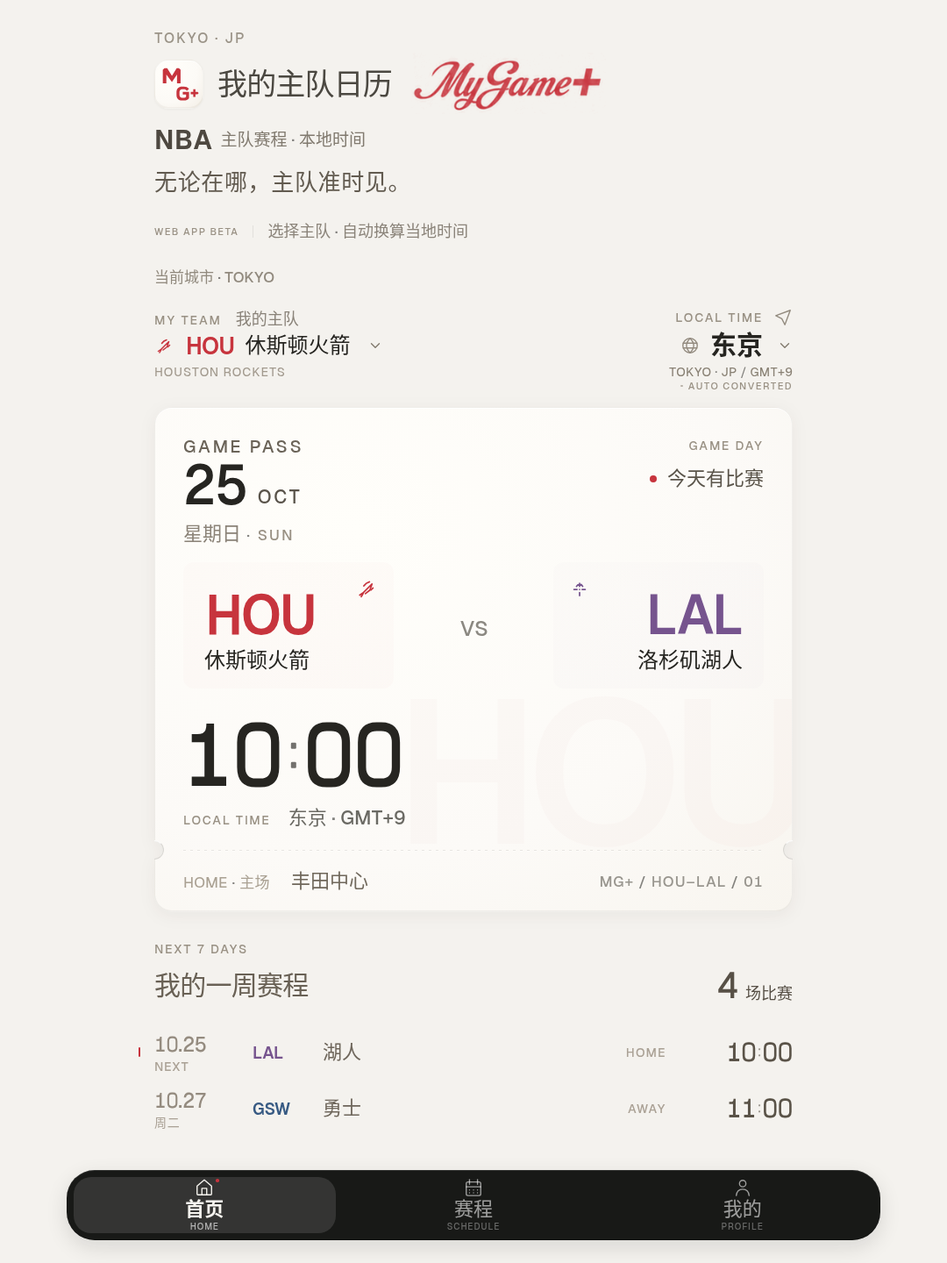
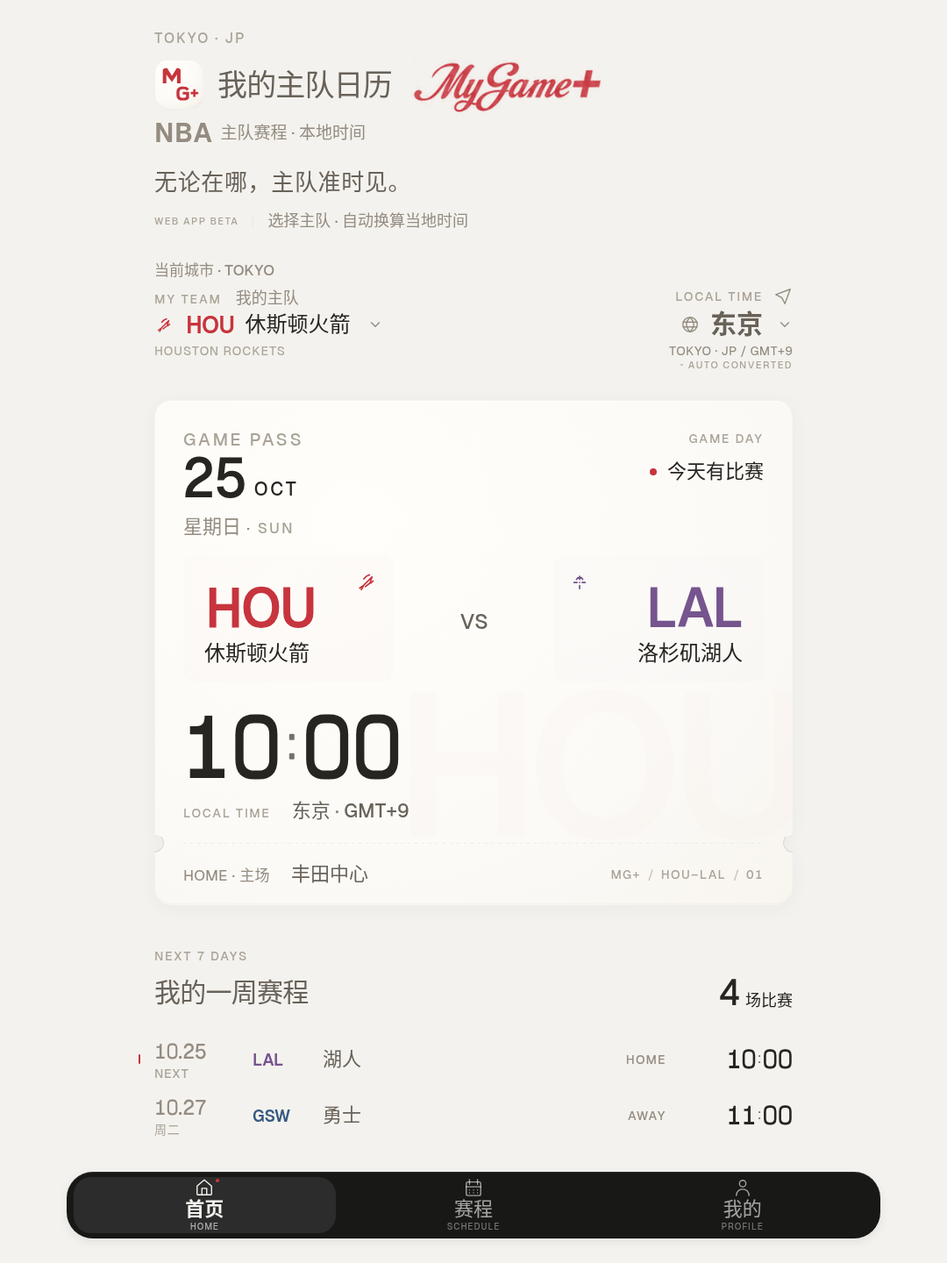
Refine MyGame+ promo V1.8 luxury precision

diff --git a/design/promo/promo.html b/design/promo/promo.html
@@ -2,7 +2,7 @@
 <html lang="zh-CN">
 <meta charset="utf-8">
 <meta name="viewport" content="width=1080, initial-scale=1">
-<title>MyGame+ Promo V1.7 — Branded Sports Language</title>
+<title>MyGame+ Promo V1.8 — Luxury Precision Pass</title>
 <link rel="stylesheet" href="system-island.css">
 <style>
 @font-face{font-family:Geist;src:url('GeistSans.woff2') format('woff2');font-weight:100 900;font-display:block}
@@ -11,12 +11,12 @@
 @font-face{font-family:'MyGame Identity';src:url('identity-600.woff2') format('woff2');font-weight:600;font-display:block}
 :root{
  --canvas:#f4f2ee;--paper:#fcfaf7;--paper-center:#fffefa;--paper-edge:#f8f5ef;
- --primary:#262521;--secondary:#6b6a64;--tertiary:#99968f;
- --hairline:rgba(20,20,20,.038);--red:#c7343d;--hou:#c7343d;--lal:#76548e;--gsw:#375a83;
- --radius-team:12px;--radius-beta:16px;--radius-pass:20px;--radius-dock:32px;
- --space-1:4px;--space-2:8px;--space-3:12px;--space-4:16px;--space-5:20px;--space-6:24px;--space-8:32px;--space-10:40px;--space-12:48px;
+ --primary:#262521;--secondary:#686259;--tertiary:#948c80;--micro-ink:#aaa397;
+ --hairline:rgba(20,20,20,.028);--red:#c7343d;--hou:#c7343d;--lal:#76548e;--gsw:#375a83;
+ --radius-team:12px;--radius-beta:16px;--radius-pass:20px;--radius-dock:30px;
+ --space-1:4px;--space-2:8px;--space-3:12px;--space-4:16px;--space-6:24px;--space-8:32px;--space-12:48px;
  --type-time:48px;--promo-time-scale:2.0833333333;
- --system-micro-size:11px;--system-micro-line:16px;--system-micro-tracking:.13em;--system-micro-weight:500;--system-micro-color:#999184;
+ --system-micro-size:11px;--system-micro-line:16px;--system-micro-tracking:.13em;--system-micro-weight:500;--system-micro-color:var(--micro-ink);
 }
 *{box-sizing:border-box}html,body{margin:0;width:1080px;height:1440px;overflow:hidden}
 body{background:var(--canvas);color:var(--primary);font-family:Geist,'Noto Sans CJK SC',sans-serif;-webkit-font-smoothing:antialiased;font-synthesis:none}
@@ -24,106 +24,108 @@ main{position:relative;width:1080px;height:1440px;isolation:isolate}h1,h2,p{marg
 svg{display:block;overflow:visible;fill:none;stroke:currentColor;stroke-width:1.5;stroke-linecap:round;stroke-linejoin:round;flex:none}
 svg *{vector-effect:non-scaling-stroke}
 .number{font-variant-numeric:tabular-nums;font-feature-settings:'tnum';font-weight:530;letter-spacing:-.035em;white-space:nowrap}
-.separator{color:rgba(38,37,33,.56)}
+.separator{color:var(--tertiary)}
 .micro,.beta-label,.auto-state{font-family:Geist,'Noto Sans CJK SC',sans-serif;font-weight:var(--system-micro-weight);letter-spacing:var(--system-micro-tracking);color:var(--system-micro-color)}
 .micro{font-size:14px;line-height:20px}
 .timing-run{display:inline-flex;align-items:center;font-family:'MyGame Timing',Geist,sans-serif;font-variant-numeric:tabular-nums;font-feature-settings:'tnum';font-weight:550;line-height:1;letter-spacing:0;white-space:nowrap}
-.timing-colon{position:relative;display:inline-block;flex:none;width:.18em;height:.74em;margin:0 .03em;opacity:.64;transform:translateY(.01em)}
+.timing-colon{position:relative;display:inline-block;flex:none;width:.18em;height:.74em;margin:0 .03em;opacity:.64;transform:translateY(0)}
 .timing-colon::before,.timing-colon::after{content:'';position:absolute;left:50%;width:.064em;height:.064em;border-radius:.012em;background:currentColor;transform:translate(-50%,-50%)}
 .colon-text{font-size:0}
 .timing-colon::before{top:34%}.timing-colon::after{top:64%}
-.top-label{position:absolute;left:176px;top:32px;width:728px;height:24px;font-size:16px;line-height:24px;letter-spacing:.12em;font-weight:500;color:#9b9488}
+.top-label{position:absolute;left:176px;top:32px;width:728px;height:24px;font-size:16px;line-height:24px;letter-spacing:.12em;font-weight:500;color:var(--micro-ink)}
 .brand{position:absolute;left:176px;top:64px;width:728px;height:64px;display:flex;align-items:center}
-.brand h1{position:absolute;left:72px;top:10px;font-size:34px;line-height:44px;font-weight:500;letter-spacing:-.025em;color:#4b4841;white-space:nowrap}
-.app-mark{position:absolute;left:0;top:4px;width:56px;height:56px;border-radius:16px;background:radial-gradient(ellipse at 30% 22%,#fffefa 10%,#fcfaf6 60%,#f3eee5 100%);border:1px solid rgba(38,37,33,.045);box-shadow:inset 0 1px 0 rgba(255,255,255,.75),inset 0 -1px 0 rgba(65,54,39,.045),0 1px 3px rgba(34,29,21,.04);color:var(--red)}
+.brand h1{position:absolute;left:72px;top:11px;font-size:34px;line-height:44px;font-weight:500;letter-spacing:-.025em;color:var(--secondary);white-space:nowrap}
+.app-mark{position:absolute;left:0;top:4px;width:56px;height:56px;border-radius:16px;background:radial-gradient(ellipse at 30% 22%,#fffefa 10%,#fcfaf6 60%,#f3eee5 100%);border:1px solid rgba(38,37,33,.025);box-shadow:inset 0 1px 0 rgba(255,255,255,.6),inset 0 -1px 0 rgba(65,54,39,.025),0 1px 3px rgba(34,29,21,.025);color:var(--red)}
 .mark-glyph{display:block;width:100%;height:100%}
 .mark-glyph,.mark-glyph *{fill:currentColor;stroke:none}
-.wordmark{position:absolute;left:292px;top:-4px;width:224px;height:70px;background:var(--red);mask:url('wordmark.png') center/contain no-repeat}
-.slogan{position:absolute;left:176px;top:192px;width:728px;height:32px;font-size:26px;line-height:32px;font-weight:500;letter-spacing:.025em;color:#625b50;white-space:nowrap}
-.subtitle{position:absolute;left:176px;top:144px;width:728px;height:32px;display:flex;align-items:center;font-size:19px;line-height:28px;font-weight:450;color:#817a6f}
-.subtitle .nba{font-size:30px;line-height:32px;font-weight:650;letter-spacing:.04em;color:#4e4840;margin-right:8px}
+.wordmark{position:absolute;left:292px;top:-2px;width:224px;height:70px;background:var(--red);mask:url('wordmark.png') center/contain no-repeat}
+.slogan{position:absolute;left:176px;top:192px;width:728px;height:32px;font-size:26px;line-height:32px;font-weight:500;letter-spacing:.025em;color:var(--secondary);white-space:nowrap}
+.subtitle{position:absolute;left:176px;top:136px;width:728px;height:32px;display:flex;align-items:center;font-size:19px;line-height:28px;font-weight:450;color:var(--tertiary)}
+.subtitle .nba{font-size:30px;line-height:32px;font-weight:650;letter-spacing:.04em;color:inherit;margin-right:8px}
 .subtitle .descriptor{white-space:pre}
-.beta{position:absolute;left:176px;top:248px;width:728px;height:32px;border-radius:var(--radius-beta);background:transparent;border:0;display:flex;align-items:center;padding:0;gap:16px}
+.beta{position:absolute;left:176px;top:240px;width:728px;height:24px;border-radius:var(--radius-beta);background:transparent;border:0;display:flex;align-items:center;padding:0;gap:16px}
 .beta-label,.auto-state{font-size:var(--system-micro-size);line-height:var(--system-micro-line);letter-spacing:var(--system-micro-tracking);font-weight:var(--system-micro-weight);color:var(--system-micro-color);white-space:nowrap}
-.divider{width:1px;height:14px;background:rgba(20,20,20,.08);flex:none}
-.beta-copy{font-size:18px;font-weight:450;letter-spacing:0;line-height:24px;color:#8b847a;white-space:nowrap}
-.city-status{position:absolute;left:176px;top:304px;width:728px;height:24px;font-size:17px;line-height:24px;font-weight:500;color:#918a7e}
-.city-status .route{color:#746d62}
-.identity{position:absolute;left:176px;top:352px;width:728px;height:96px}
+.divider{width:1px;height:14px;background:rgba(20,20,20,.04);flex:none}
+.beta-copy{font-size:18px;font-weight:450;letter-spacing:0;line-height:24px;color:var(--tertiary);white-space:nowrap}
+.city-status{position:absolute;left:176px;top:296px;width:728px;height:24px;font-size:17px;line-height:24px;font-weight:500;color:var(--tertiary)}
+.city-status .route{color:inherit}
+.identity{position:absolute;left:176px;top:328px;width:728px;height:96px}
 .identity-label{position:absolute;top:0;left:0;height:24px;width:420px;display:flex;gap:16px;align-items:baseline}
 .identity-label .micro,.local-label .micro{font-size:14px;line-height:20px}
-.identity-label .cn{font-size:18px;letter-spacing:0;line-height:24px;color:#8a8379;font-weight:450}
+.identity-label .cn{font-size:18px;letter-spacing:0;line-height:24px;color:var(--tertiary);font-weight:450}
 .time-system{position:absolute;right:0;top:0;width:280px;height:96px;text-align:right}
 .local-label{position:absolute;right:0;top:0;display:flex;align-items:center;gap:12px;height:20px}
-.local-label svg{width:22px;height:22px;color:#938b7f}
+.local-label svg{width:22px;height:22px;color:var(--tertiary)}
 .auto-state{position:absolute;right:0;top:80px;display:flex;align-items:center;gap:6px}
 .auto-state::before{content:'';width:2.5px;height:2.5px;border-radius:50%;background:currentColor;opacity:.65;flex:none}
 .team-preference{position:absolute;left:0;top:24px;display:flex;align-items:center;gap:12px;height:36px;white-space:nowrap}
 .team-preference svg{width:24px;height:24px;color:var(--hou)}
 .team-preference .code{font-family:'MyGame Identity',Geist,sans-serif;font-size:28px;line-height:36px;font-weight:600;letter-spacing:-.02em;color:var(--hou)}
 .team-preference .name{font-size:24px;line-height:36px;font-weight:500}
-.team-preference .chevron{width:18px;height:18px;margin-left:8px;color:#817a6d}
+.team-preference .chevron{width:18px;height:18px;margin-left:8px;color:var(--tertiary)}
 .city-control{position:absolute;right:0;top:24px;display:flex;align-items:center;height:36px;gap:12px}
-.city-control .globe{width:22px;height:22px;color:#938b7f}
-.city-control .city{font-size:30px;line-height:36px;font-weight:550;min-width:60px}
-.city-control .chevron{width:18px;height:18px;color:#817a6d;margin-left:4px}
-.identity-english{position:absolute;left:0;top:64px;width:370px;height:16px;font-size:14px;line-height:16px;font-weight:450;letter-spacing:.07em;color:#a29a8e}
-.offset{left:auto;right:0;width:280px;text-align:right;letter-spacing:.025em;font-variant-numeric:tabular-nums;color:#898174}
-.pass{position:absolute;left:176px;top:464px;width:728px;height:576px;border-radius:var(--radius-pass);background:transparent;border:1px solid transparent;filter:drop-shadow(0 4px 9px rgba(34,29,21,.052))}
+.city-control .globe{width:22px;height:22px;color:var(--tertiary)}
+.city-control .city{font-size:30px;line-height:36px;font-weight:550;min-width:60px;color:var(--secondary)}
+.city-control .chevron{width:18px;height:18px;color:var(--tertiary);margin-left:4px}
+.identity-english{position:absolute;left:0;top:64px;width:370px;height:16px;font-size:14px;line-height:16px;font-weight:450;letter-spacing:.07em;color:var(--micro-ink)}
+.offset{left:auto;right:0;width:280px;text-align:right;letter-spacing:.025em;font-variant-numeric:tabular-nums;color:var(--tertiary)}
+.pass{position:absolute;left:176px;top:456px;width:728px;height:576px;border-radius:var(--radius-pass);background:transparent;border:1px solid transparent;filter:drop-shadow(0 4px 9px rgba(34,29,21,.036))}
 /* The paper is physically masked at the two original punch positions. Shadows follow its silhouette. */
-.pass::before{content:'';position:absolute;inset:-1px;z-index:0;border-radius:inherit;border:1px solid rgba(20,20,20,.05);background:radial-gradient(ellipse at 32% 24%,var(--paper-center) 0%,var(--paper) 62%,var(--paper-edge) 100%);box-shadow:inset 0 1px 0 rgba(255,255,255,.76),inset 0 -1px 0 rgba(20,20,20,.05);mask-image:radial-gradient(circle 11px at 0 505px,transparent 10.45px,#000 11.15px),radial-gradient(circle 11px at 100% 505px,transparent 10.45px,#000 11.15px);mask-composite:intersect}
+.pass::before{content:'';position:absolute;inset:-1px;z-index:0;border-radius:inherit;border:1px solid rgba(20,20,20,.018);background:radial-gradient(ellipse at 32% 24%,var(--paper-center) 0%,var(--paper) 62%,var(--paper-edge) 100%);box-shadow:inset 0 1px 0 rgba(255,255,255,.64),inset 0 -1px 0 rgba(20,20,20,.025);mask-image:radial-gradient(circle 11px at 0 505px,transparent 10.45px,#000 11.15px),radial-gradient(circle 11px at 100% 505px,transparent 10.45px,#000 11.15px);mask-composite:intersect}
 .pass-content{position:absolute;inset:0;z-index:1;border-radius:inherit;overflow:hidden}
-.pass-label{position:absolute;left:32px;top:32px;font-size:20px;line-height:24px;color:#6b6459}
-.date{position:absolute;left:32px;top:56px;height:64px;display:flex;align-items:baseline;gap:12px}
-.date .day{font-family:'MyGame Timing',Geist,sans-serif;font-size:64px;line-height:64px;font-weight:550;letter-spacing:0}
-.date .month{font-size:21px;line-height:28px;font-weight:500;letter-spacing:.12em;transform:translateY(-1px);color:#5a544b}
-.weekday{position:absolute;left:32px;top:128px;height:32px;font-size:22px;line-height:32px;font-weight:450;color:#8b8378}
+.pass-label{position:absolute;left:32px;top:32px;font-size:20px;line-height:24px}
+.date{position:absolute;left:32px;top:56px;height:64px;display:flex;align-items:baseline;gap:8px}
+.date .day{font-family:'MyGame Timing',Geist,sans-serif;font-size:64px;line-height:64px;font-weight:550;letter-spacing:0;transform:translateX(-1px)}
+.date .month{font-size:21px;line-height:28px;font-weight:500;letter-spacing:.12em;transform:translateY(-2px);color:var(--primary)}
+.weekday{position:absolute;left:32px;top:128px;height:32px;font-size:22px;line-height:32px;font-weight:450;color:var(--tertiary)}
 .weekday .en{font-size:17px;letter-spacing:.13em;font-weight:500;color:var(--system-micro-color)}
 .game-day{position:absolute;right:32px;top:32px;text-align:right}
-.game-status{margin-top:12px;display:flex;align-items:center;justify-content:flex-end;gap:12px;font-size:22px;line-height:32px;font-weight:500;color:#5a544a}
+.game-status{margin-top:12px;display:flex;align-items:center;justify-content:flex-end;gap:12px;font-size:22px;line-height:32px;font-weight:500;color:var(--primary)}
 .sports-dot{width:8px;height:8px;border-radius:50%;background:var(--hou);flex:none}
-.team-tint{position:absolute;left:32px;top:176px;width:240px;height:144px;border-radius:var(--radius-team);background:radial-gradient(ellipse at 34% 26%,rgba(199,52,61,.012),rgba(199,52,61,.020))}
-.team-tint.away{left:auto;right:32px;background:radial-gradient(ellipse at 34% 26%,rgba(118,84,142,.012),rgba(118,84,142,.021));text-align:right}
+.team-tint{position:absolute;left:32px;top:176px;width:240px;height:144px;border-radius:var(--radius-team);background:radial-gradient(ellipse at 34% 26%,rgba(199,52,61,.008),rgba(199,52,61,.016))}
+.team-tint.away{left:auto;right:32px;background:radial-gradient(ellipse at 34% 26%,rgba(118,84,142,.007),rgba(118,84,142,.014));text-align:right}
 .team-symbol{position:absolute;right:16px;top:16px;width:28px;height:28px;stroke-width:1.5;color:var(--hou)}
 .away .team-symbol{right:auto;left:16px;width:28px;height:28px;color:var(--lal);transform:translateY(1px)}
 .team-abbr{position:absolute;left:24px;top:24px;height:72px;font-family:'MyGame Identity',Geist,sans-serif;font-size:64px;line-height:72px;font-weight:600;letter-spacing:-.025em;color:var(--hou);transform:translateX(1px)}
 .away .team-abbr{left:auto;right:24px;transform:translateX(-1px);color:var(--lal)}
 .team-chinese{position:absolute;left:24px;top:96px;font-size:24px;line-height:32px;font-weight:500;white-space:nowrap}
 .away .team-chinese{left:auto;right:24px}
-.versus{position:absolute;left:328px;top:236px;width:72px;text-align:center;font-size:24px;line-height:32px;color:#8b8881;font-weight:500;letter-spacing:.02em}
-.watermark{position:absolute;right:-12px;top:300px;width:470px;height:220px;font-size:232px;line-height:1;font-weight:600;letter-spacing:-.055em;color:var(--hou);opacity:.016;text-align:right;pointer-events:none;user-select:none}
+.versus{position:absolute;left:328px;top:236px;width:72px;text-align:center;font-size:24px;line-height:32px;color:var(--secondary);font-weight:500;letter-spacing:.02em}
+.watermark{position:absolute;right:-12px;top:300px;width:470px;height:220px;font-size:232px;line-height:1;font-weight:600;letter-spacing:-.055em;color:var(--hou);opacity:.009;text-align:right;pointer-events:none;user-select:none}
 .tipoff{position:absolute;left:32px;top:344px;width:560px;height:104px;display:flex;align-items:center;font-size:calc(var(--type-time)*var(--promo-time-scale));line-height:104px}
-.time-caption{position:absolute;left:32px;top:452px;height:32px;display:flex;align-items:baseline;gap:20px}
+.tipoff .timing-run{transform:translate(-2px,-1px)}
+.time-caption{position:absolute;left:32px;top:452px;height:32px;display:flex;align-items:baseline;gap:24px}
 .time-caption .micro{font-size:14px;line-height:20px}
 .time-caption .caption-state{font-size:22px;line-height:32px;font-weight:500;color:var(--secondary);font-variant-numeric:tabular-nums}
-.perforation{position:absolute;left:32px;right:32px;top:504px;height:2px;background-image:repeating-linear-gradient(90deg,rgba(67,59,48,.11) 0 3px,transparent 3px 8px),repeating-linear-gradient(90deg,rgba(255,255,255,.5) 0 3px,transparent 3px 8px);background-size:8px .7px,8px .5px;background-position:0 0,0 1px;background-repeat:repeat-x}
+.perforation{position:absolute;left:32px;right:32px;top:504px;height:2px;background-image:repeating-linear-gradient(90deg,rgba(67,59,48,.075) 0 3px,transparent 3px 8px),repeating-linear-gradient(90deg,rgba(255,255,255,.38) 0 3px,transparent 3px 8px);background-size:8px .7px,8px .5px;background-position:0 0,0 1px;background-repeat:repeat-x}
 .stub{position:absolute;left:32px;right:32px;top:520px;height:40px;display:flex;align-items:center;justify-content:space-between;gap:24px}
-.venue{display:flex;gap:24px;align-items:baseline;font-size:22px;line-height:32px;font-weight:500;color:#70685c;white-space:nowrap}
-.venue-status{color:#aaa193;font-size:17px;font-weight:450;letter-spacing:.025em}
-.serial{font-size:17px;font-weight:500;letter-spacing:.06em;color:var(--tertiary);white-space:nowrap;font-variant-numeric:tabular-nums}
+.venue{display:flex;gap:24px;align-items:baseline;font-size:22px;line-height:32px;font-weight:500;color:var(--secondary);white-space:nowrap}
+.venue-status{color:var(--tertiary);font-size:17px;font-weight:450;letter-spacing:.025em}
+.serial{display:inline-flex;align-items:baseline;gap:8px;font-size:14px;line-height:20px;font-weight:500;letter-spacing:.1em;color:var(--micro-ink);white-space:nowrap;font-variant-numeric:tabular-nums}
+.serial .separator{color:inherit;opacity:.62;letter-spacing:0}
 .notch{position:absolute;top:493px;width:22px;height:22px;border-radius:50%;background:transparent;z-index:2;pointer-events:none}
 .notch::before{content:'';position:absolute;inset:0;border:1px solid rgba(43,37,28,.095);border-top-color:rgba(255,255,255,.78);border-bottom-color:rgba(43,37,28,.11);border-radius:inherit}
 .notch.left{left:-12px;clip-path:inset(-1px -1px -1px 50%)}.notch.right{right:-12px;clip-path:inset(-1px 50% -1px -1px)}
-.week{position:absolute;left:176px;top:1072px;width:728px;height:224px}
+.week{position:absolute;left:176px;top:1080px;width:728px;height:224px}
 .week-label{position:absolute;left:0;top:0;height:24px;font-size:14px;line-height:20px}
-.week h2{position:absolute;left:0;top:32px;height:40px;font-size:30px;line-height:40px;font-weight:500;letter-spacing:-.025em;color:#696155}
-.count{position:absolute;right:0;top:32px;height:40px;display:flex;align-items:baseline;gap:10px;color:#575046}
+.week h2{position:absolute;left:0;top:32px;height:40px;font-size:30px;line-height:40px;font-weight:500;letter-spacing:-.025em;color:var(--secondary)}
+.count{position:absolute;right:0;top:32px;height:40px;display:flex;align-items:baseline;gap:8px;color:var(--primary)}
 .count .number{font-family:'MyGame Timing',Geist,sans-serif;font-size:42px;line-height:40px;font-weight:500;transform:translateY(-1px)}
 .count .text{font-size:18px;line-height:24px;font-weight:450}
 .schedule{position:absolute;left:0;top:96px;width:728px;height:128px}
 .schedule-row{height:64px;display:grid;grid-template-columns:96px 1fr 92px 128px;column-gap:16px;align-items:center;position:relative}
 .schedule-row:last-child{border-bottom:0}
 .row-date{height:56px;padding-top:2px;display:flex;flex-direction:column;justify-content:center;gap:0}
-.row-date .number{font-family:'MyGame Timing',Geist,sans-serif;font-size:24px;line-height:30px;font-weight:500;letter-spacing:0;color:#948b7f}
-.row-date .sub{font-size:14px;line-height:20px;font-weight:500;color:#aaa195;letter-spacing:.06em}
+.row-date .number{font-family:'MyGame Timing',Geist,sans-serif;font-size:24px;line-height:30px;font-weight:500;letter-spacing:0;color:var(--tertiary)}
+.row-date .sub{font-size:14px;line-height:20px;font-weight:500;color:var(--micro-ink);letter-spacing:.06em}
 .next-line{position:absolute;left:-18px;top:26px;width:2px;height:11px;border-radius:1px;background:var(--hou)}
-.row-team{display:flex;align-items:center;gap:24px;font-size:22px;line-height:32px;font-weight:500;color:#6e665b;white-space:nowrap}
+.row-team{display:flex;align-items:center;gap:24px;font-size:22px;line-height:32px;font-weight:500;color:var(--secondary);white-space:nowrap}
 .row-code{width:56px;font-family:'MyGame Identity',Geist,sans-serif;font-size:20px;font-weight:600;letter-spacing:-.01em;color:var(--lal)}
 .warriors .row-code{color:var(--gsw)}
-.row-venue{font-size:14px;line-height:24px;font-weight:500;color:#aaa195;letter-spacing:.10em;text-align:right}
-.row-time{display:flex;align-items:center;justify-content:flex-end;font-size:30px;line-height:40px;font-weight:500;color:#5a5348;text-align:right}
+.row-venue{font-size:14px;line-height:24px;font-weight:500;color:var(--tertiary);letter-spacing:.10em;text-align:right}
+.row-time{display:flex;align-items:center;justify-content:flex-end;font-size:30px;line-height:40px;font-weight:500;color:var(--primary);text-align:right}
 .row-time .timing-run{font-weight:500}.row-time .timing-colon{opacity:.56}
-.dock{position:absolute;left:76px;top:1334px;width:928px;height:80px}
+.dock{position:absolute;left:76px;top:1336px;width:928px;height:76px}
 </style>
 <main aria-label="MyGame+ 宣传图">
  <svg width="0" height="0" style="position:absolute" aria-hidden="true"><defs>
@@ -166,7 +168,7 @@ svg *{vector-effect:non-scaling-stroke}
    <div class="tipoff number" data-state id="tipoff"></div>
    <div class="time-caption"><span class="micro">LOCAL TIME</span><span class="caption-state" data-state id="time-caption"></span></div>
    <div class="perforation"></div>
-   <div class="stub"><div class="venue"><span class="venue-status">HOME<span class="separator"> · </span>主场</span><span>丰田中心</span></div><span class="serial">MG+<span class="separator"> / </span>HOU–LAL<span class="separator"> / </span>01</span></div>
+   <div class="stub"><div class="venue"><span class="venue-status">HOME<span class="separator"> · </span>主场</span><span>丰田中心</span></div><span class="serial"><span>MG+</span><span class="separator"> / </span><span>HOU–LAL</span><span class="separator"> / </span><span>01</span></span></div>
   </div>
   <span class="notch left"></span><span class="notch right"></span>
  </section>

diff --git a/src/styles/system-island.css b/src/styles/system-island.css
@@ -1,12 +1,12 @@
 :root {
   --island-surface: #181917;
-  --island-radius: 32px;
+  --island-radius: 30px;
   --island-active-radius: 20px;
-  --island-active-surface: rgba(255,255,255,.12);
+  --island-active-surface: rgba(255,255,255,.085);
   --island-text-active: #f7f5f0;
-  --island-text-inactive: rgba(255,255,255,.58);
-  --island-label-active: rgba(255,255,255,.64);
-  --island-label-inactive: rgba(255,255,255,.35);
+  --island-text-inactive: rgba(255,255,255,.60);
+  --island-label-active: rgba(255,255,255,.62);
+  --island-label-inactive: rgba(255,255,255,.40);
   --island-signal: #c7343d;
   --island-motion: 180ms ease-out;
 }
@@ -17,18 +17,18 @@
   border: 0;
   border-radius: var(--island-radius);
   color: var(--island-text-active);
-  box-shadow: inset 0 1px 0 rgba(255,255,255,.10),
-    inset 0 -1px 0 rgba(0,0,0,.26),
-    0 8px 24px rgba(15,15,15,.12),
-    0 0 0 1px rgba(255,255,255,.025);
+  box-shadow: inset 0 1px 0 rgba(255,255,255,.08),
+    inset 0 -1px 0 rgba(0,0,0,.18),
+    0 4px 12px rgba(15,15,15,.07),
+    0 0 0 1px rgba(255,255,255,.02);
   isolation: isolate;
 }
 .system-island-items {
   display: grid;
   grid-template-columns: repeat(3,minmax(0,1fr));
   gap: 8px;
-  padding: 8px;
-  height: 80px;
+  padding: 6px 8px;
+  height: 76px;
 }
 .system-island-item {
   appearance: none;

diff --git a/docs/system-island.md b/docs/system-island.md
@@ -1,56 +1,70 @@
-# MyGame+ Promo V1.7 — Branded Sports Language
+# MyGame+ Promo V1.8 — Luxury Precision Pass
 
 System is engineered. Game is tactile.
-V1.7 unifies timing numerals, event dates, team wordmarks and technical labels within the existing composition. Existing event content, abstract team-symbol concepts, navigation destinations and App business logic are unchanged. No module, function, CTA or copy is added.
+V1.8 reduces noise through four brightness tiers, alternating dense/open spacing, a light-defined ticket edge and a thinner system island. The V1.7 timing/identity type, logo contours, event content, abstract team symbols, destinations and App business logic are unchanged. No module, function, CTA, decorative concept or copy is added.
+
+## Four brightness tiers and deliberate restraint
+
+| Ink tier | Token | Role |
+| --- | --- | --- |
+| Primary | `#262521` | Main time, event date, team Chinese names, match status, programme times/count |
+| Secondary | `#686259` | Chinese brand name, slogan, city, venue, future opponents and summary heading |
+| Tertiary | `#948C80` | NBA descriptor, city-state line, weekday, HOME/AWAY, selector hints, date structure and GMT metadata |
+| Micro | `#AAA397` | Technical uppercase labels, auxiliary English, WEB APP BETA, AUTO CONVERTED and serial |
+
+Signal/team colors and inverse island ink retain their specific identity/state roles. Neutral content no longer chooses local near-duplicate greys. GAME PASS's label steps back to the same micro tier as GAME DAY; it is the physical pass and its sporting content that lead the composition.
+Beta/AUTO, English metadata, weekdays and secondary labels retreat through the shared ink system. The existing watermark recedes from 1.6% to 0.9%; the brand seal's edge/contact shadow also softens. Programme dividers remain absent. No information is removed.
 
 ## Premium sports timing and identity type
 
 - `MyGame Timing` is a small, OFL-licensed derivative of the bundled Geist, not a downloaded display or scoreboard font. It retains Geist's modern solid numeral skeleton and narrows the tabular advance by 8% to 569/1000 em. Every digit has the same advance both by default and with `tnum` enabled.
 - Zero has a custom upright, controlled-shoulder outline and a carefully opened counter. One keeps a substantial stem, flag and foot. There are no broken strokes, LED dots, stencil cuts, glow or italic shapes. Weight 550 serves the main time/date; 500 serves smaller programme times, dates and count.
 - Main time remains 100px in its existing 104px frame. No enlargement compensates for the new type character. Programme times remain 30px, right-aligned on the same axis.
-- Colon is not a font glyph: two rounded-square marks at .064em, radius .012em, sit at 34%/64% of a .74em carrier. The same geometry scales from main to programme time; opacity is 64% in the pass and 56% in the programme. A hidden textual colon and complete accessible label preserve the time's meaning.
-- `25` uses the same timing family at 64px/550. `OCT` is 21px/500 with .12em tracking and a -1px baseline compensation. Weekday/SUN recede to secondary warm greys.
+- Colon is not a font glyph: two rounded-square marks at .064em, radius .012em, sit at 34%/64% of a .74em carrier. The previous .01em downward offset is removed for optical balance. The same geometry scales from main to programme time; opacity remains 64% in the pass and 56% in the programme. A hidden textual colon and complete accessible label preserve the time's meaning.
+- `25` uses the same timing family at 64px/550, with a -1px horizontal correction. `OCT` is 21px/500 with .12em tracking, an 8px group gap and a -2px baseline compensation. The main time receives -2px horizontal/-1px vertical optical compensation within its unchanged frame; LOCAL TIME stays on the 32px ticket-content axis. Programme times retain their tabular alignment. Weekday/SUN recede to tertiary/micro ink.
 - `MyGame Identity` is a Geist-derived uppercase subset, 6% narrower at weight 600, retaining the original clear, upright letter construction. HOU/LAL are 64px with -.025em tracking; MY TEAM and programme team codes inherit this stamp-like family. Team colors remain restrained.
 - Source and license: `src/app/fonts/GeistSans.woff2` and [SIL Open Font License](../src/app/fonts/OFL.txt). Copyright (c) 2023 Vercel, in collaboration with basement.studio. Modified font families have their own names and embed the upstream copyright and complete license in their metadata. The original Geist file is unchanged.
 - `design/promo/build-type.py` reproduces the three checked-in WOFF2 subsets. Optional authoring dependencies are `fonttools[woff]==4.61.1` and `Brotli==1.1.0`. Regular PNG export consumes the checked-in subsets and needs no Python packages or external font requests.
 
 ## Fixed brand lockup and four header levels
 
-- Brand: the 56×56px ivory App Mark is at x=176/y=68, radius 16px. The Chinese title is 34px/44px, weight 500, warm graphite; the original script silhouette is 224×70px at x=468/y=60. These are one fixed, left-aligned lockup rather than competing headings.
-- The mark uses three custom SVG contours, with no font glyphs. M has chamfered shoulders and a tighter diagonal inner counter; G keeps its squared-round open contour. A separately drawn plus now ends in a small chamfer that echoes M's cuts. M remains upper-left and G+ lower-right with a clearer diagonal gap. The ivory seal has a broad upper-left radial light, a 4.5% hairline, restrained lower edge and a 0 1px 3px / 4% contact shadow. There is no red background; the script remains the signature and MG+ the seal.
-- Fixed visual order follows city label → brand lockup → NBA descriptor → slogan. Descriptor is at y=144, 16px below the brand frame; slogan is at y=192, 16px below the descriptor frame. Tokyo `无论在哪，主队准时见。`; London `换个城市，不换主队。`. Both slogans remain 26px/32px, weight 500, width 728. They form an emotional pause rather than another explanatory heading.
-- Product/system row: WEB APP BETA and the existing capability copy sit at y=248 in a flat 32px row, 24px below the slogan. NBA is 30px/650 and the descriptor 19px/450; Beta microcopy is 11px/500 and capability copy 18px/450. No enclosing light, blur, border or card competes with the pass.
-- State: city-state at y=304, 24px below Beta; MY TEAM / LOCAL TIME at y=352, 24px below the city-state frame. Selector values sit at y=376 and metadata at y=416. Product, emotional and state text use deliberate weight/grey differences rather than a stack of similarly strong headings. GAME PASS, schedule and island keep their established coordinates and sizes.
-- Tokyo state: `当前城市 · TOKYO`. London state: `城市切换 · TOKYO → LONDON`. Same position, size and weight; the route is subtly darker.
-- `LOCAL TIME` now owns a single 280×96px right-aligned group containing its label/arrow, city, IANA-derived location/GMT metadata and `AUTO CONVERTED` beneath the metadata at y=432. City is primary at 30px/550; metadata is 14px secondary; AUTO is 11px tertiary and shares the group's exact right edge. It no longer floats beside the label.
-- All technical labels—GAME PASS, GAME DAY, MY TEAM, LOCAL TIME, NEXT 7 DAYS, WEB APP BETA and AUTO CONVERTED—use Geist, weight 500, .13em tracking and a related warm-grey family. GAME PASS is 20px and slightly darker; other labels are 14px or 11px according to hierarchy. AUTO/Beta share exact 11px/16px tokens, including color `#999184`.
-- Existing team/city chevrons are 18px with clearer warm-neutral ink `#817A6D`, retaining 1.5px rounded strokes and precise value-to-chevron gaps. There is no input frame, button surface or pill.
+- Brand: the 56×56px ivory App Mark remains at x=176/y=68, radius 16px. The Chinese title remains 34px/44px, weight 500, now using secondary ink. It moves down 1px; the original 224×70px script silhouette moves down 2px to x=468/y=62 for optical alignment. Neither is enlarged or redrawn.
+- The mark retains three custom SVG contours: M upper-left, G+ lower-right, with the existing independent chamfered plus and negative space. The ivory seal's hairline and contact shadow step back to 2.5%. The script remains the signature and MG+ the seal, without an additional decorative signature.
+- Fixed visual order remains city label → brand lockup → NBA descriptor → slogan. The descriptor sits at y=136, 8px below the brand frame; slogan sits at y=192, 24px below the descriptor. Tokyo `无论在哪，主队准时见。`; London `换个城市，不换主队。`. Both remain 26px/32px, weight 500, width 728, in secondary ink.
+- Product/system row: Beta and the existing capability copy sit at y=240 in a flat 24px row, 16px below the slogan. NBA remains 30px/650; descriptor 19px/450; Beta 11px/500; capability copy 18px/450. No enclosing surface competes with the pass; the small separator recedes to 4% ink.
+- State: city-state at y=296, 32px below Beta; MY TEAM / LOCAL TIME at y=328, only 8px below the city-state frame. Selectors sit at y=352, metadata at y=392 and AUTO at y=408. The 96px identity frame ends at y=424; GAME PASS begins at y=456 after a deliberate 32px open gap.
+- Full vertical rhythm, measured frame-to-frame: city label → brand **8**, brand → descriptor **8**, descriptor → slogan **24**, slogan → Beta **16**, Beta → city state **32**, city state → identity **8**, identity → pass **32**, pass → summary **48**, summary → island **32** px. The dense state group and open event transitions produce a deliberate rhythm rather than repeated similar gaps.
+- Tokyo state: `当前城市 · TOKYO`. London state: `城市切换 · TOKYO → LONDON`. Both use one tertiary tier; route text does not introduce another nearly identical grey.
+- LOCAL TIME retains one 280×96px right-aligned group. City remains 30px/550 in secondary ink; location/GMT metadata is 14px tertiary; AUTO is 11px micro, beneath the metadata. It shares the same right edge and remains clearly owned by the time system.
+- All technical labels use Geist, weight 500, .13em tracking and the same micro ink `#AAA397`. GAME PASS remains 20px; other labels remain 14px or 11px. AUTO/Beta share exact 11px/16px tokens.
+- Existing team/city chevrons remain 18px with 1.5px rounded strokes and precise gaps; their ink is unified to tertiary. There is no input frame, button surface or pill.
 - The export renders the existing demo UTC fixtures through Intl/IANA timezone conversion, matching the real App's established behavior; this adds no product feature or live data source.
 - The original abstract crests retain their paths, 1.5px rounded strokes and non-scaling detail. Their stamp frames are optically balanced at 28px; LAL gets a 1px vertical correction. No additional crest detail or symbol concept is introduced.
-- GAME DAY is an unboxed 14px technical label above 22px/500 Chinese state and its small solid red signal. In the stub, `HOME · 主场` recedes to 17px/450 tertiary ink; `丰田中心` remains 22px/500 secondary, separated by 24px like printed event detail. The serial stays `MG+ / HOU–LAL / 01`, with no developer/build/version wording.
+- GAME DAY remains an unboxed 14px micro label above 22px/500 primary Chinese state and its small red signal. In the stub, `HOME · 主场` is 17px/450 tertiary; `丰田中心` is 22px/500 secondary, separated by 24px like printed event detail.
+- `MG+ / HOU–LAL / 01` is the sole third-look brand detail. Its text is unchanged; it now uses a fixed 14px/20px size, weight 500, .10em tracking, 8px gaps around two separators, and micro ink. Slash tracking is neutral and opacity 62%. The serial remains aligned to the stub's 32px right inset. No additional numbering or signature is introduced.
 - Product reality comes from WEB APP BETA, clickable-looking selectors, the functioning navigation language and the paired Tokyo/London state. No visible URL/domain, QR code or new CTA is added.
 
 ## Shared material and navigation
 
 `src/styles/system-island.css` is used by the real App and both promotional exports.
 
-- Surface: `#181917`; radius: 32px; active segment: white 12%, radius 20px, no border.
-- Top inset: white 10%; bottom inset: black 26%; outside shadow: 0 8px 24px, black 12%; soft edge: white 2.5%.
-- Active icon/Chinese: warm white, Chinese weight 550; English: white 64%; 3.6px signal-red dot.
-- Inactive icon/Chinese: white 58%; English: white 35%.
-- Chinese: 22px/26px, weight 500 (active 550), so its 30% rendering is 6.6px rather than 4.8px. English remains the second layer at 10px/12px, weight 480, tracking .10em. A 1px gap and 1px vertical padding preserve the 64px stack within the same 80px island; no item or state is added.
-- Three equal tracks; 22px icons, 1.5px rounded strokes with non-scaling paths; identical icon and text baselines. The 80px outer height is retained.
-- Promo island: x=76, y=1334, width=928, height=80, bottom=26 on a 1080×1440 canvas. Schedule ends at y=1296.
+- Surface remains `#181917`; radius settles to 30px; active segment softens from white 12% to 8.5%, radius 20px, no border.
+- Top inset: white 8%; bottom inset: black 18%; outside shadow: 0 4px 12px, black 7%; soft edge: white 2%. Height reduces from 80px to 76px; shadows and depth are reduced rather than reinforced.
+- Active icon/Chinese remain warm white, Chinese weight 550; English: white 62%; 3.6px signal-red dot.
+- Inactive icon/Chinese: white 60%; English: white 40%, preserving legibility against the quieter active segment.
+- Chinese remains 22px/26px, weight 500 (active 550), rendering at 6.6px in the 30% thumbnail. English remains 10px/12px, weight 480, tracking .10em. The unchanged 64px internal stack is kept through 6px outer vertical padding; no label is compressed or added.
+- Three equal tracks; 22px icons, 1.5px rounded strokes with non-scaling paths; identical icon and text baselines. All tracks retain the same optical center.
+- Promo island: x=76, y=1336, width=928, height=76, bottom=28 on a 1080×1440 canvas. Schedule frame ends at y=1304, leaving 32px clear above the island.
 - Beta is now flat microcopy in the product-identity group rather than another surface. The brand seal is the sole small branding exception; GAME PASS is the only illuminated content object, and the dark island remains the distinct engineered control layer.
 
 ## Warm stone, tactile paper, signal color
 
 - Canvas: `#F4F2EE`, a quiet, flat warm-stone editorial background.
 - Paper: `#FCFAF7`; central light `#FFFEFA`; settled edge `#F8F5EF`. Broad upper-left light at 32%/24% slightly increases soft volume through luminance alone. The pass has no blur, glossy reflection or 3D transform.
-- Paper edge: white 76% top inset, dark 5% bottom inset, a 5% hairline. A low `drop-shadow(0 4px 9px rgba(34,29,21,.052))` follows the cut silhouette rather than a rectangular box. This increases contact separation from the flat canvas without making the pass float high.
-- Exactly two original side punch positions are retained; diameter is refined to 22px. The paper surface uses intersecting radial masks, so the holes reveal Canvas. A 78% white upper arc and 9.5–11% darker inner/lower arc describe the cut material. The frame, punch centers and tear-guide axis remain unchanged.
-- The tear guide uses a regular 8px pitch (3px mark / 5px gap), 0.7px ink at 11% and a restrained 0.5px light edge at 50%. It stays precisely centered on the cutouts, without a groove.
-- Printed/laminated identity patches retain 12px radii with no border or shadow. Pale red/purple ink varies only from 1.2% in the center to about 2–2.1% at the edge, weaker than the pass lighting; they inherit the pass's broader light. Core time remains 100px/104px from the existing 48px design token and promo scale. Watermark remains 1.6%.
+- Paper edge is now defined principally by Canvas/paper luminance, cutouts and contact light: white 64% top inset, dark 2.5% bottom inset and only a 1.8% supporting border (about 2% after Chromium color quantization). Contact shadow decreases to `0 4px 9px rgba(34,29,21,.036)`. The existing broad luminance surface remains unchanged; no stronger gradient or extra texture is added.
+- Exactly two original side punch positions are retained at 22px diameter. The paper surface uses intersecting radial masks, so the holes reveal Canvas. A 78% white upper arc and 9.5–11% darker inner/lower arc describe the cut material. Ticket dimensions, relative punch centers and the tear-guide axis remain unchanged.
+- The tear guide retains its 8px pitch (3px mark / 5px gap) and cutout alignment. Ink decreases to 7.5% at 0.7px, and its 0.5px light edge to 38%; it suggests the manufacturing process quietly.
+- Identity patches retain 12px radii with no border or shadow. Existing HOU red now contributes only 0.8–1.6% warmth; existing LAL purple contributes 0.7–1.4% cooler purple-grey temperature. They modulate the ivory rather than read as colored cards, inheriting the pass's broad light. No new color is added. Core time remains 100px/104px; watermark recedes to 0.9%.
 - Unified signal red: `#C7343D`; LAL purple: `#76548E`; GSW blue: `#375A83`. Color encodes identity/state. The MyGame+ script silhouette is reused as a mask, changing ink color without reshaping the mark.
 - Ordinary city/identity/schedule regions remain flat. NEXT 7 DAYS becomes a quieter summary: 30px/500 section heading, 42px/500 count, smaller secondary dates, aligned team identities and 30px times. Schedule rules are removed; row grouping relies on spacing and alignment rather than a table frame. No additional boxes or shadows are introduced there.
 
@@ -85,10 +99,17 @@ Output:
 - `output/douyin/mygame-plus-douyin-02-london.png`
 
 The exporter verifies dimensions, complete PNG decoding, all three font families, text fit, radius and geometry, navigation alignment, equal material parameters and pixel-identical islands.
-It also checks the two exact slogans, custom vector App Mark, unified technical labels, equal digit advances, custom colon geometry/contrast, date/time-family consistency, LOCAL TIME ownership/alignment, exact header gaps, borderless summary, flat editorial regions and absence of visible URLs.
+It also checks all four assigned neutral-ink tiers, the exact dense/open gap sequence, restrained paper-border alpha, fixed serial syntax/spacing/alignment, softer active segment, unchanged slogans, custom App Mark, equal digit advances, date/time consistency, LOCAL TIME ownership, flat editorial regions and absence of visible URLs.
 Differences between the two images occur only in slogan, city, GMT, time and city-transition text regions.
-The validation report is written to `/tmp/mygame-promo-v1.7-validation.json` rather than checked in as a generated artifact.
-For art-direction review, it also exports 324×432 (30%) thumbnails and border-off full-size/30% variants to `/tmp/mygame-promo-v1.7-{tokyo,london}-*.png`. Border-Off suppresses borders/outlines and both divider/tear-guide drawings, without altering widths or positions. Every shared layout landmark must remain unchanged; visual review checks that type and whitespace still carry the hierarchy. These diagnostics are not delivery images or extra repository artifacts.
+The validation report is written to `/tmp/mygame-promo-v1.8-validation.json` rather than checked in as a generated artifact.
+Four art-direction reviews are exported only under `/tmp`:
+
+- 30%: 324×432 thumbnails for both cities; verify HOU/LAL, time, ticket silhouette, script signature and navigation survive.
+- Squint/Blur: a 5px browser blur, full size and 30%, for both cities; verify sporting object, brand and island remain distinct masses.
+- Border-Off: suppress borders/outlines and both divider/tear-guide drawings while preserving dimensions; every shared layout landmark must remain unchanged, and typography/whitespace/light must retain the order.
+- Tokyo/London Overlay: exact 50/50 pixel average at 1080×1440 and 30%; fixed regions are also compared directly and must have zero differing pixels outside the allowed content regions.
+
+Diagnostics use `/tmp/mygame-promo-v1.8-{tokyo,london}-*.png` and `/tmp/mygame-promo-v1.8-overlay{,-30}.png`. These are review images, not additional delivery elements or repository artifacts. The final two PNGs retain their required filenames.
 
 With the App running locally, run `node design/promo/check-app.cjs` (`MYGAME_APP_URL` defaults to `http://127.0.0.1:3200`).
 This checks real city/team navigation, fixture/no-fixture states, context dismissal, reduced motion and 320/390/480/1080px safe areas.
